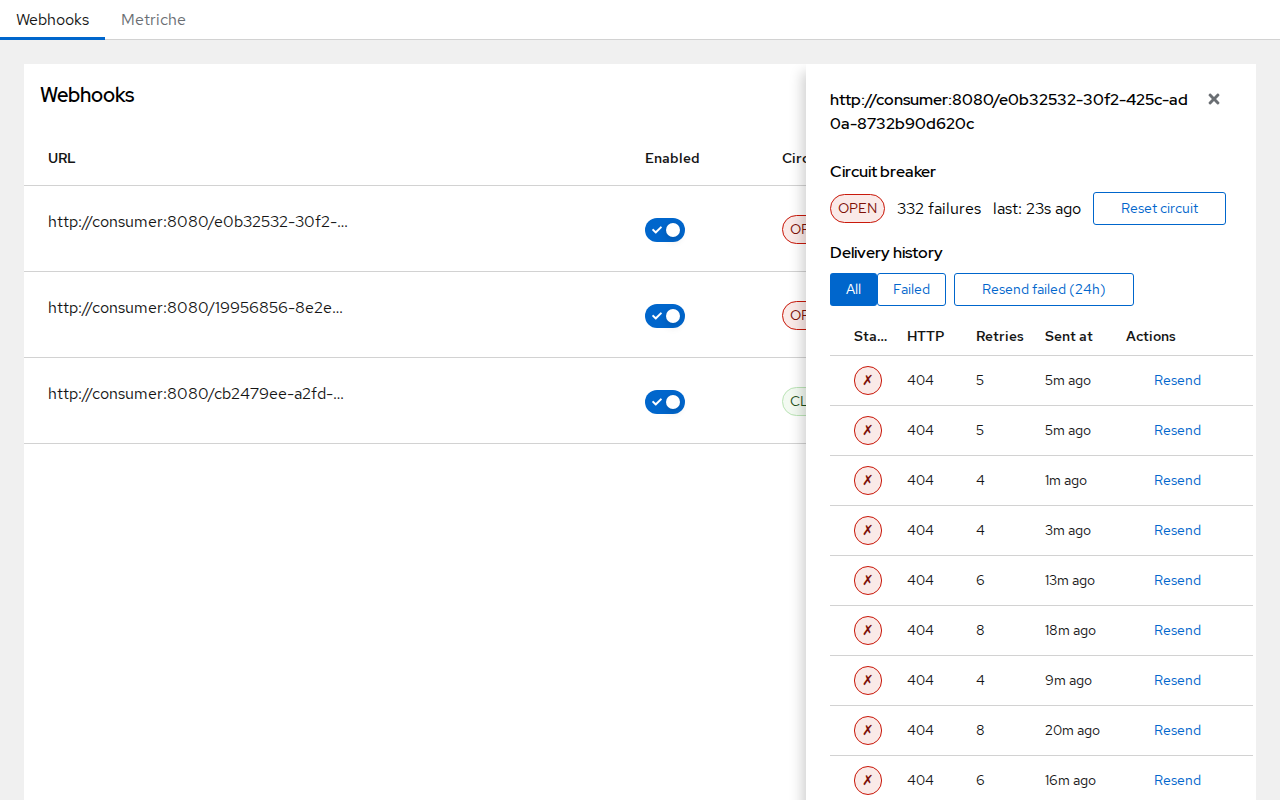
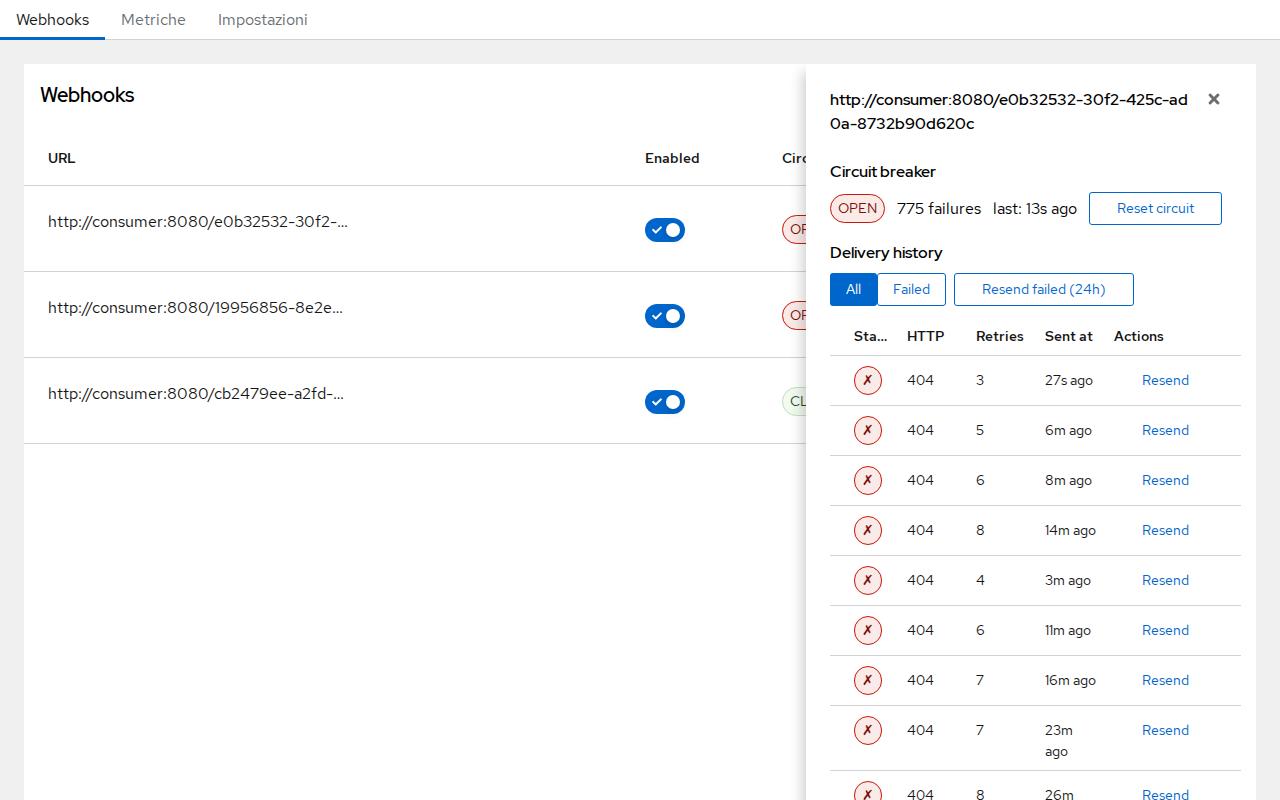
docs: add settings page section to user guide (EN + IT) with screenshot

diff --git a/e2e/take-screenshots.ts b/e2e/take-screenshots.ts
@@ -108,6 +108,12 @@ async function main() {
   }
   await shot(page, '06-metrics-raw-prometheus');
 
+  // ── 07 Settings page ────────────────────────────────────────────────────
+  const settingsTab = page.getByRole('tab', { name: 'Impostazioni' });
+  await settingsTab.click({ timeout: 10_000 });
+  await page.waitForTimeout(600);
+  await shot(page, '07-settings-page');
+
   await browser.close();
   console.log(`\nDone. Screenshots saved to: ${OUT_DIR}`);
 }

diff --git a/docs/user-guide/guide-it.md b/docs/user-guide/guide-it.md
@@ -95,7 +95,7 @@ Il tasso di successo viene mostrato sotto il contatore delle consegne:
 - **Verde** — ≥ 95% di successo
 - **Arancione** — < 95% di successo
 
-Il toggle **Auto-refresh** abilita l'aggiornamento automatico ogni 10 secondi.  
+Il toggle **Auto-refresh** abilita l'aggiornamento automatico. L'intervallo è configurabile nel tab **Impostazioni** (default: 10 secondi).  
 Il pulsante **Aggiorna** forza un aggiornamento immediato.
 
 ---
@@ -122,3 +122,24 @@ La risposta usa il formato testo Prometheus 0.0.4 ed espone le seguenti famiglie
 | `webhook_retries_total` | counter | Retry pianificati |
 | `webhook_retries_exhausted_total` | counter | Catene di retry terminate senza successo |
 | `webhook_queue_pending` | gauge | Task in attesa nell'esecutore |
+
+---
+
+## 7. Impostazioni
+
+![Pagina impostazioni](screenshots/07-settings-page.png)
+
+Il tab **Impostazioni** espone le opzioni di configurazione dell'interfaccia, persistite nel `localStorage` del browser tra una sessione e l'altra.
+
+### Intervallo auto-refresh metriche
+
+Controlla la frequenza con cui la pagina Metriche interroga automaticamente l'endpoint `/metrics` quando l'**Auto-refresh** è abilitato.
+
+| Opzione | Valore |
+|---------|--------|
+| 5 secondi | 5 s |
+| **10 secondi** *(default)* | 10 s |
+| 30 secondi | 30 s |
+| 60 secondi | 60 s |
+
+La selezione ha effetto immediato — non è richiesto alcun salvataggio. L'impostazione persiste al ricaricamento della pagina.

diff --git a/docs/user-guide/guide-en.md b/docs/user-guide/guide-en.md
@@ -95,7 +95,7 @@ The success rate is displayed below the dispatch count:
 - **Green** — ≥ 95% success
 - **Amber** — < 95% success
 
-Use the **Auto-refresh** toggle to enable automatic refresh every 10 seconds.  
+Use the **Auto-refresh** toggle to enable automatic refresh. The interval is configurable in the **Settings** tab (default: 10 seconds).  
 Click **Aggiorna** to trigger an immediate refresh.
 
 ---
@@ -122,3 +122,24 @@ The response uses Prometheus text format 0.0.4 and exposes the following metric 
 | `webhook_retries_total` | counter | Retry attempts scheduled |
 | `webhook_retries_exhausted_total` | counter | Retry chains exhausted without success |
 | `webhook_queue_pending` | gauge | Tasks pending in the executor |
+
+---
+
+## 7. Settings
+
+![Settings page](screenshots/07-settings-page.png)
+
+The **Impostazioni** tab exposes UI configuration options that are persisted in the browser's `localStorage` across sessions.
+
+### Metrics auto-refresh interval
+
+Controls how often the Metrics page automatically polls the `/metrics` endpoint when **Auto-refresh** is enabled.
+
+| Option | Value |
+|--------|-------|
+| 5 secondi | 5 s |
+| **10 secondi** *(default)* | 10 s |
+| 30 secondi | 30 s |
+| 60 secondi | 60 s |
+
+Select an option and the change takes effect immediately — no save required. The setting persists after a page reload.
